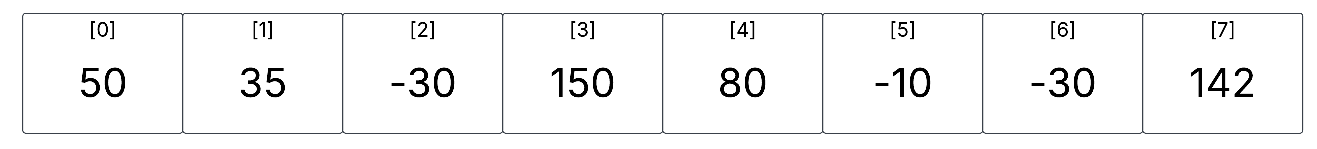
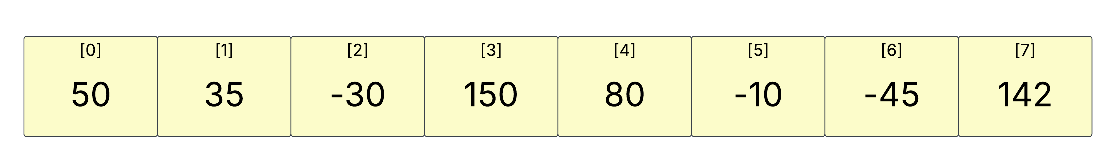
Finished Up selection sort

diff --git a/Algorithms/Sorting/SelectionSort.md b/Algorithms/Sorting/SelectionSort.md
@@ -6,16 +6,18 @@ Scans the array  finding the smallest elements and swapping them from the beginn
 ## Array to Sort
 <img src="unsorted-array.png" width="400">
 
+
 ## Algorithm
 ```bash
 FOR i = 0 to Array Length
-   FOR j = 0 to Array Length
+   FOR j = 1 to Array Length
        Smallest Value in [j] moved to Array[i]  
    NEXT j
    END FOR
 NEXT i
 END FOR 
 ```
+<img src="sorting-algorithm.png" width="400">
 
 ## What is the Time Complexity ?
 
